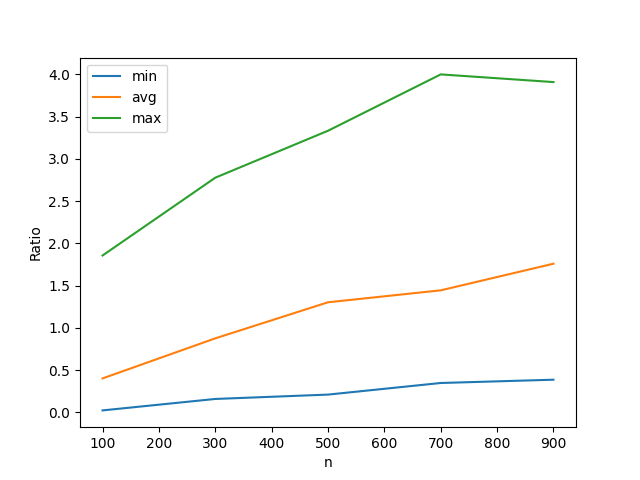
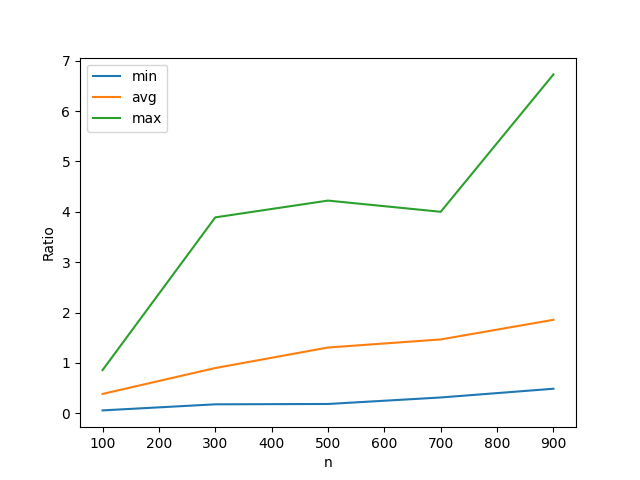
fin

diff --git a/assignment2/test.py b/assignment2/test.py
@@ -78,7 +78,7 @@ def listConcatTime(n):
     B = list(range(n))
     for i in range(1000):
         start = time.perf_counter()
-        _ = A + B
+        A + B
         times[i] = time.perf_counter() - start
     return times
 
@@ -88,7 +88,7 @@ def arrayConcatTime(n):
     B = np.arange(n)
     for i in range(1000):
         start = time.perf_counter()
-        _ = np.concatenate((A, B))
+        np.concatenate((A, B))
         times[i] = time.perf_counter() - start
     return times
 
@@ -302,9 +302,13 @@ print(f"SharingList(A) = {SharingList(A)}")
 
 # 2-2-b
 def FindPopularList(A_list):
-    from collections import Counter
-    flat = [item for sublist in A_list for item in sublist]
-    return Counter(flat).most_common(1)[0][0] if flat else None
+    freq = {}
+    for sublist in A_list:
+        for item in sublist:
+            freq[item] = freq.get(item, 0) + 1
+
+    return max(freq, key=freq.get)
+
 
 def FindPopularArray(A):
     return int(np.argmax(np.sum(A, axis=1)))
@@ -313,13 +317,16 @@ ratios = np.zeros(1000)
 for i in range(1000):
     A_temp = np.random.binomial(1, 0.2, size=(20, 10))
     A_list_temp = SharingList(A_temp)
+    
     start = time.perf_counter()
     FindPopularList(A_list_temp)
     t1 = time.perf_counter() - start
+    
     start = time.perf_counter()
     FindPopularArray(A_temp)
     t2 = time.perf_counter() - start
-    ratios[i] = t1 / t2 if t2 != 0 else 0
+    
+    ratios[i] = t1 / t2
 plt.hist(ratios, bins=100)
 plt.xlabel("Ratio")
 plt.ylabel("Freq")
@@ -330,19 +337,46 @@ plt.close()
 def generateOrderedSet(n):
     return np.sort(np.random.randint(0, 101, n))
 
-def member(A, e):
-    for a in A:
-        if a == e:
-            return True
-        if a > e:
+def Member(A, e):
+    if not A:
+        return False
+    p = 0
+    while True:
+        a = A[p]
+        if a < e:
+            if p == len(A) - 1:
+                return False
+            else:
+                p += 1
+        elif a > e:
             return False
-    return False
+        else:
+            return True
 
-def subset(A, B):
-    return all(a in B for a in A)
+def Subset(A, B):
+    if not A:
+        return True
+    p = 0
+    while True:
+        if Member(B, A[p]):
+            if p == len(A) - 1:
+                return True
+            else:
+                p += 1
+        else:
+            return False
 
-def subsetFast(A, B):
-    return all(a in B for a in A)
+def SubsetFast(A, B):
+    i = j = 0
+    while i < len(A) and j < len(B):
+        if A[i] < B[j]:
+            return False
+        elif A[i] > B[j]:
+            j += 1
+        else:
+            i += 1
+            j += 1
+    return i == len(A)
 
 sizes = [10, 30, 50, 70, 90]
 ratios = []
@@ -351,12 +385,12 @@ for n in sizes:
     for _ in range(1000):
         B_set = generateOrderedSet(n)
         start = time.perf_counter()
-        subset([0, 9], B_set)
+        Subset([0, 9], B_set)
         t1 = time.perf_counter() - start
         start = time.perf_counter()
-        subsetFast([0, 9], B_set)
+        SubsetFast([0, 9], B_set)
         t2 = time.perf_counter() - start
-        temp.append(t1/t2 if t2 != 0 else 0)
+        temp.append(t1 / t2)
     temp = np.array(temp)
     ratios.append([temp.min(), temp.mean(), temp.max()])
 ratios = np.array(ratios)
@@ -406,13 +440,13 @@ for n in sizes:
     for _ in range(1000):
         B_union = generateOrderedSet(n)
         start = time.perf_counter()
-        _ = UnionNon(A_union, B_union)
+        UnionNon(A_union, B_union)
         t1 = time.perf_counter() - start
         A_copy = A_union.copy()
         start = time.perf_counter()
-        _ = Union(A_copy, B_union)
+        Union(A_copy, B_union)
         t2 = time.perf_counter() - start
-        temp.append(t1/t2 if t2 != 0 else 0)
+        temp.append(t1 / t2)
     temp = np.array(temp)
     ratios.append([temp.min(), temp.mean(), temp.max()])
 ratios = np.array(ratios)
@@ -449,13 +483,13 @@ for n in sizes:
     for _ in range(1000):
         B_intersect = generateOrderedSet(n)
         start = time.perf_counter()
-        _ = IntersectNon(A_union, B_intersect)
+        IntersectNon(A_union, B_intersect)
         t1 = time.perf_counter() - start
         A_copy = A_union.copy()
         start = time.perf_counter()
-        _ = Intersect(A_copy, B_intersect)
+        Intersect(A_copy, B_intersect)
         t2 = time.perf_counter() - start
-        temp.append(t1/t2 if t2 != 0 else 0)
+        temp.append(t1 / t2)
     temp = np.array(temp)
     ratios.append([temp.min(), temp.mean(), temp.max()])
 ratios = np.array(ratios)
